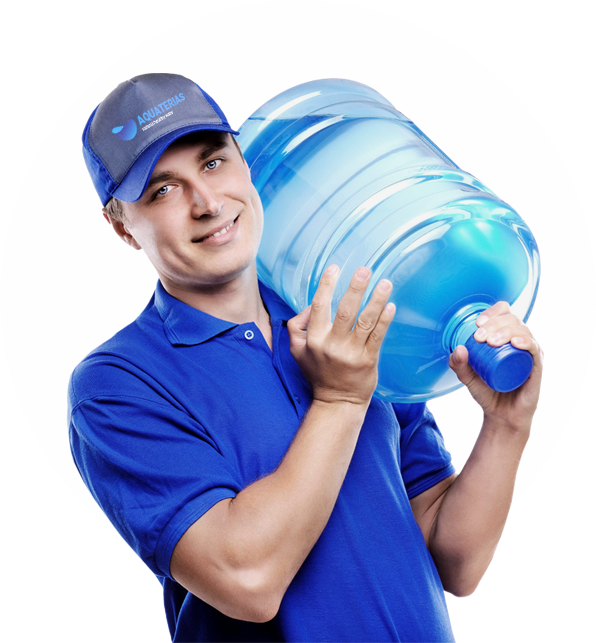
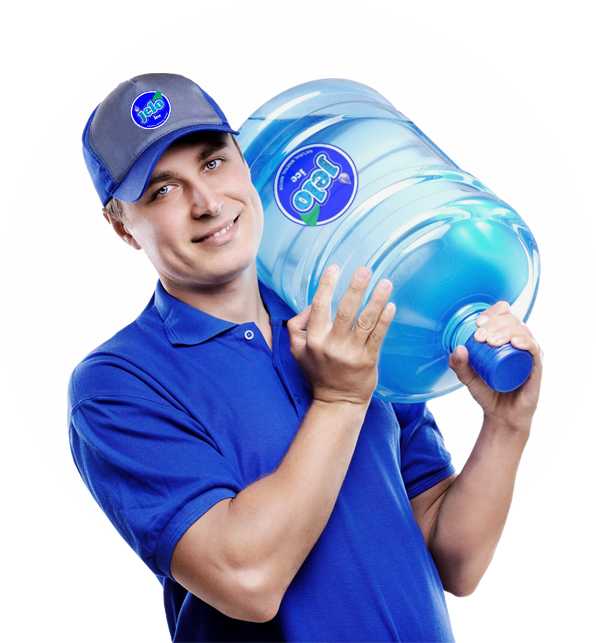
..

Changed region(s): [[0.453, 0.2177, 0.604, 0.3733], [0.1812, 0.1244, 0.302, 0.2177]]

diff --git a/aquaterias.like-themes.com/homepage-mineral-water/index.html b/aquaterias.like-themes.com/homepage-mineral-water/index.html
@@ -2651,8 +2651,8 @@
                               class="heading heading-large head-subheader align-left color-main subcolor-white transform-all-up vc_custom_1514247801613"
                               id="like_sc_header_557925215"
                             >
-                              <h3 class="subheader">Jello Water</h3>
-                              <h2 class="header">for every day</h2>
+                              <h3 class="subheader">Jello Ice</h3>
+                              <h2 class="header">Quench your thirst</h2>
                             </div>
                             <div
                               class="ltx-content-width col-align-left"
@@ -2662,9 +2662,7 @@
                                 <div class="wpb_wrapper">
                                   <p style="text-align: left">
                                     <em
-                                      >Vestibulum non nisi tincidunt, pulvinar
-                                      nibh sed, accumsan dui. In purus dolor,
-                                      lobortis eget sapien quis.</em
+                                      >Stay refreshed and energized with our pure, high-quality water! Whether you're at work, at the gym, or just relaxing at home, our water is the perfect way to quench your thirst and keep you hydrated throughout the day.</em
                                     >
                                   </p>
                                 </div>
@@ -2782,12 +2780,7 @@
                                     src="../wp-content/uploads/2017/12/water.png"
                                     class="vc_single_image-img attachment-full"
                                     alt=""
-                                    srcset="
-                                      http://aquaterias.like-themes.com/wp-content/uploads/2017/12/water.png         811w,
-                                      http://aquaterias.like-themes.com/wp-content/uploads/2017/12/water-300x262.png 300w,
-                                      http://aquaterias.like-themes.com/wp-content/uploads/2017/12/water-768x670.png 768w,
-                                      http://aquaterias.like-themes.com/wp-content/uploads/2017/12/water-600x523.png 600w
-                                    "
+                                 
                                     sizes="(max-width: 811px) 100vw, 811px"
                                   />
                                 </div>
@@ -2934,9 +2927,7 @@
                                 <p>
                                   <em
                                     ><span class="text-xsmall"
-                                      >Vestibulum non nisi tincidunt, pulvinar
-                                      nibh sed, accumsan dui. In purus
-                                      dolor.</span
+                                      >Calcium is vital for bone health, proper functioning of muscles, and nerve signaling. It also supports cardiovascular health and helps maintain a balanced pH level in the body.</span
                                     ></em
                                   >
                                 </p>
@@ -2974,9 +2965,7 @@
                                 <p>
                                   <span class="text-xsmall"
                                     ><em
-                                      >Vestibulum non nisi tincidunt, pulvinar
-                                      nibh sed, accumsan dui. In purus
-                                      dolor.</em
+                                      >Magnesium supports muscle relaxation, energy production, and heart health. It also helps to regulate calcium and potassium levels in the body, contributing to overall wellness.</em
                                     ></span
                                   >
                                 </p>
@@ -3014,9 +3003,7 @@
                                 <p>
                                   <span class="text-xsmall"
                                     ><em
-                                      >Vestibulum non nisi tincidunt, pulvinar
-                                      nibh sed, accumsan dui. In purus
-                                      dolor.</em
+                                      >Sodium is critical for maintaining electrolyte balance, proper nerve impulses, and muscle function. It helps regulate water levels in and around cells, ensuring hydration and balance.</em
                                     ></span
                                   >
                                 </p>
@@ -3069,11 +3056,7 @@
                                     src="../wp-content/uploads/2017/12/mineral-glass-square.png"
                                     class="vc_single_image-img attachment-full"
                                     alt=""
-                                    srcset="
-                                      http://aquaterias.like-themes.com/wp-content/uploads/2017/12/mineral-glass-square.png         760w,
-                                      http://aquaterias.like-themes.com/wp-content/uploads/2017/12/mineral-glass-square-300x221.png 300w,
-                                      http://aquaterias.like-themes.com/wp-content/uploads/2017/12/mineral-glass-square-600x443.png 600w
-                                    "
+                                   
                                     sizes="(max-width: 760px) 100vw, 760px"
                                   />
                                 </div>
@@ -3092,12 +3075,7 @@
                                     src="../wp-content/uploads/2017/12/mineral-elements-2.png"
                                     class="vc_single_image-img attachment-full"
                                     alt=""
-                                    srcset="
-                                      http://aquaterias.like-themes.com/wp-content/uploads/2017/12/mineral-elements-2.png         807w,
-                                      http://aquaterias.like-themes.com/wp-content/uploads/2017/12/mineral-elements-2-300x249.png 300w,
-                                      http://aquaterias.like-themes.com/wp-content/uploads/2017/12/mineral-elements-2-768x637.png 768w,
-                                      http://aquaterias.like-themes.com/wp-content/uploads/2017/12/mineral-elements-2-600x497.png 600w
-                                    "
+                                   
                                     sizes="(max-width: 807px) 100vw, 807px"
                                   />
                                 </div>
@@ -3175,9 +3153,7 @@
                                 <p>
                                   <span class="text-xsmall"
                                     ><em
-                                      >Vestibulum non nisi tincidunt, pulvinar
-                                      nibh sed, accumsan dui. In purus
-                                      dolor.</em
+                                      >Chlorine is added to drinking water to disinfect it, ensuring it is free from harmful pathogens. It's an effective and widely used method to prevent waterborne diseases like cholera and dysentery.</em
                                     ></span
                                   >
                                 </p>
@@ -3215,9 +3191,7 @@
                                 <p>
                                   <span class="text-xsmall"
                                     ><em
-                                      >Vestibulum non nisi tincidunt, pulvinar
-                                      nibh sed, accumsan dui. In purus
-                                      dolor.</em
+                                      > A pH within this range supports bodily functions without causing irritation to tissues or impacting the absorption of essential nutrients.</em
                                     ></span
                                   >
                                 </p>
@@ -3413,10 +3387,7 @@
                                     src="../wp-content/uploads/2017/12/man.png"
                                     class="vc_single_image-img attachment-full"
                                     alt=""
-                                    srcset="
-                                      http://aquaterias.like-themes.com/wp-content/uploads/2017/12/man.png         596w,
-                                      http://aquaterias.like-themes.com/wp-content/uploads/2017/12/man-278x300.png 278w
-                                    "
+                                   
                                     sizes="(max-width: 596px) 100vw, 596px"
                                   />
                                 </div>
@@ -3676,7 +3647,7 @@
                               id="like_sc_header_196367306"
                             >
                               <h5 class="header">
-                                Our company was founded in 1965
+                                Contact Us
                                 <span class="subheader sub-nl"></span>
                               </h5>
                             </div>
@@ -3685,9 +3656,8 @@
                               id="like_sc_header_508750358"
                             >
                               <h6 class="header">
-                                Aquatiras is ideal for drinking, cooking, sports
-                                and even for children. The product is certified
-                                in 12 countries.
+                                Jello Ice is ideal for drinking, cooking, sports
+                                and even for children. 
                                 <span class="subheader sub-nl"></span>
                               </h6>
                             </div>
@@ -4009,7 +3979,7 @@
                     </div>
                   </section>
                   <div class="vc_row-full-width vc_clearfix"></div>
-                  <section
+                  <!-- <section
                     data-vc-full-width="true"
                     data-vc-full-width-init="false"
                     data-vc-parallax="1.5"
@@ -4540,7 +4510,7 @@
                         </div>
                       </div>
                     </div>
-                  </section>
+                  </section> -->
                   <div class="vc_row-full-width vc_clearfix"></div>
                   <div class="vc_row wpb_row vc_row-fluid">
                     <div class="wpb_column vc_column_container vc_col-sm-12">

diff --git a/aquaterias.like-themes.com/index.html b/aquaterias.like-themes.com/index.html
@@ -1,11 +1,7 @@
 <!DOCTYPE html>
-<!--[if IE 7]><html class="ie ie7" lang="en-US"> <![endif]-->
-<!--[if IE 8]><html class="ie ie8" lang="en-US"> <![endif]-->
-<!--[if !(IE 7) | !(IE 8)]><!-->
+
 <html lang="en-US">
-  <!--<![endif]-->
-  <!-- Mirrored from aquaterias.like-themes.com/ by HTTrack Website Copier/3.x [XR&CO'2014], Thu, 03 Oct 2024 14:18:39 GMT -->
-  <!-- Added by HTTrack --><meta
+<meta
     http-equiv="content-type"
     content="text/html;charset=UTF-8"
   /><!-- /Added by HTTrack -->
@@ -5118,11 +5114,6 @@
     </section>
     <footer class="footer-block">
       <div class="container">
-        <p>
-          <a href="https://themeforest.net/user/like-themes">Like-themes</a> ©
-          All Rights Reserved - 2018 -
-          <a href="https://themeforest.net/user/like-themes">Purchase Theme</a>
-        </p>
         <a href="#" class="go-top go-top-img hidden-xs hidden-ms">
           <img
             width="58"
